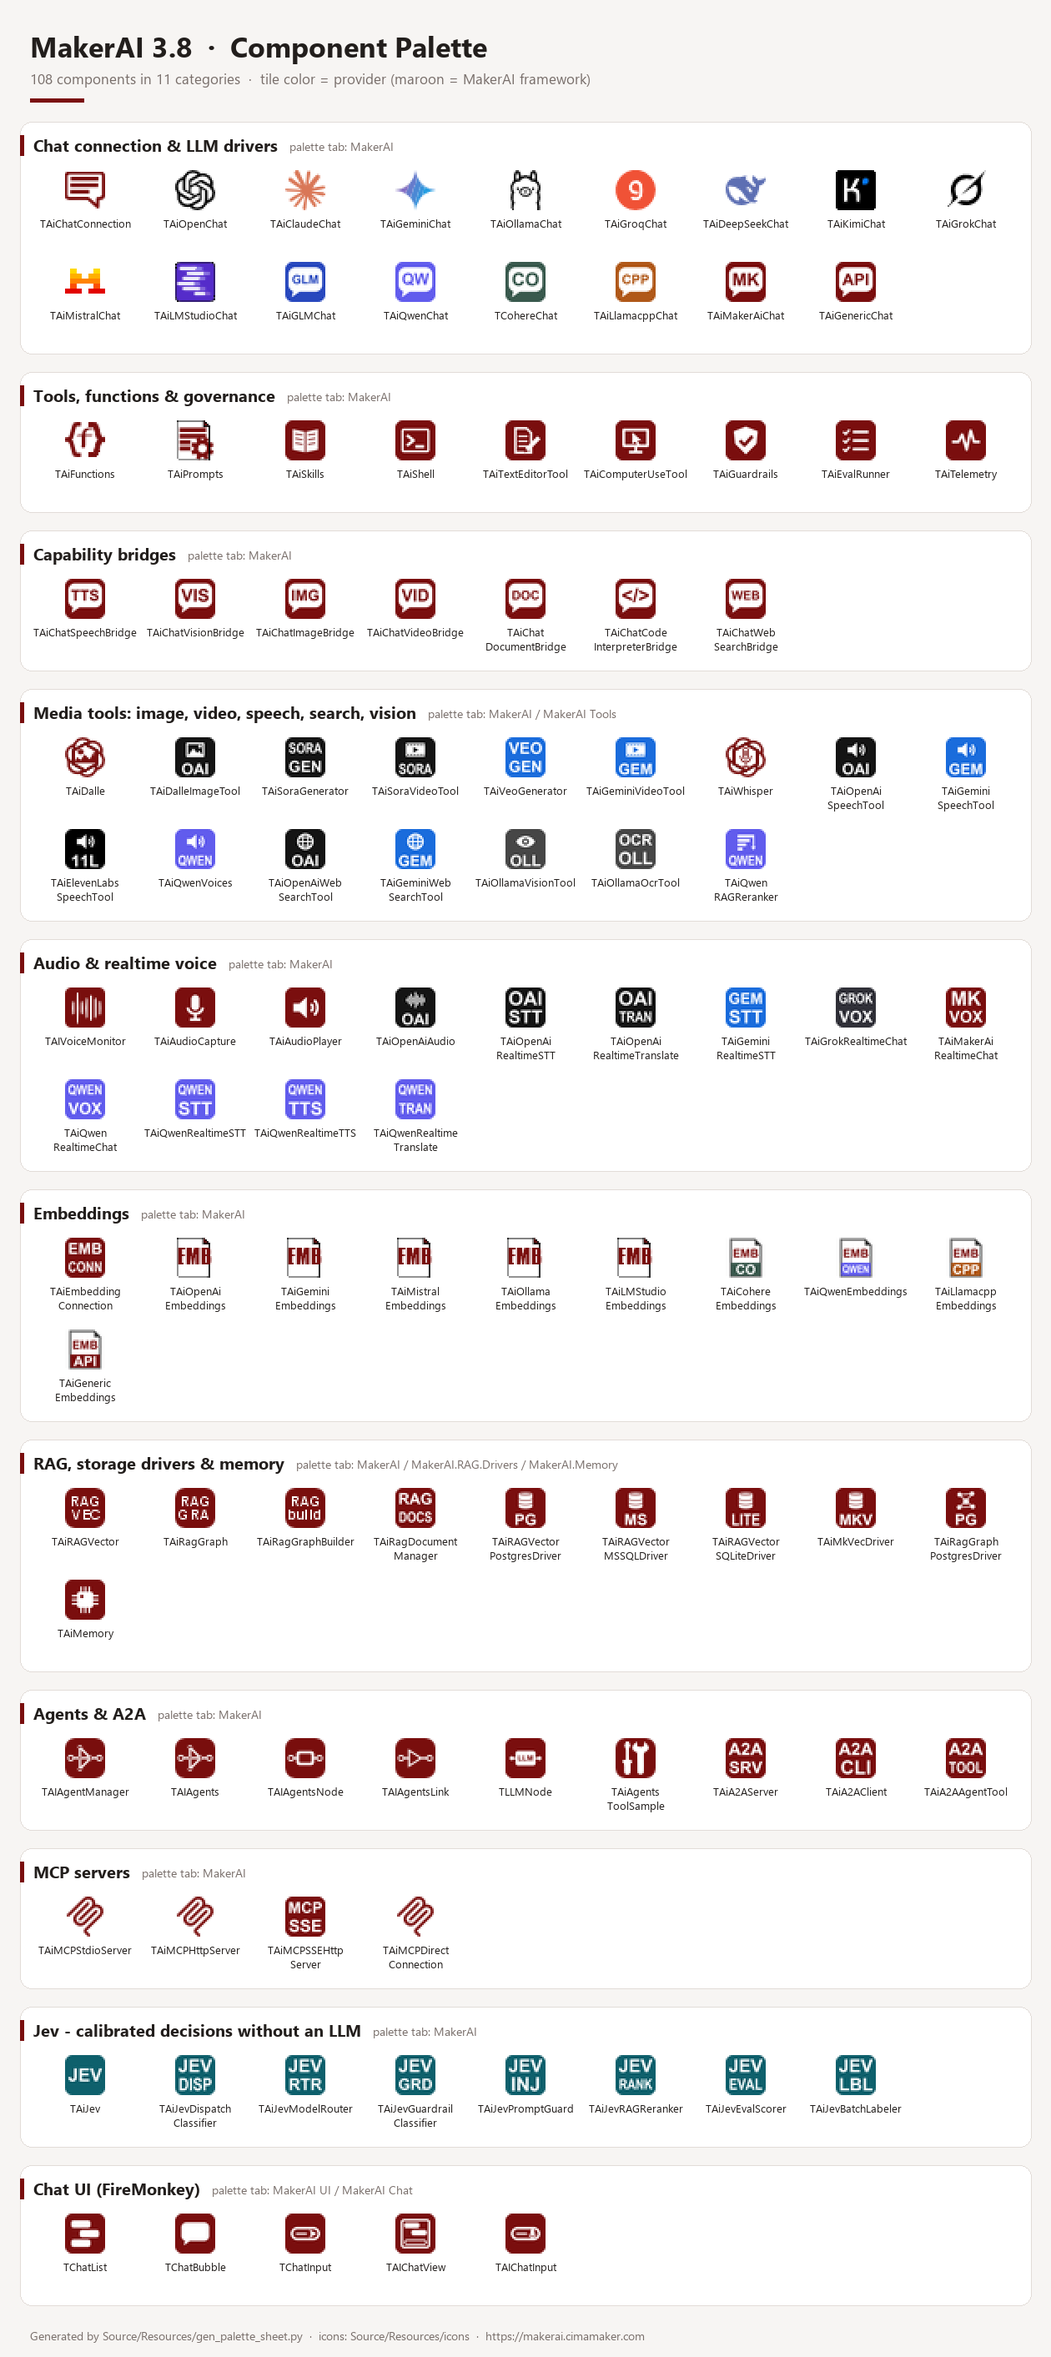
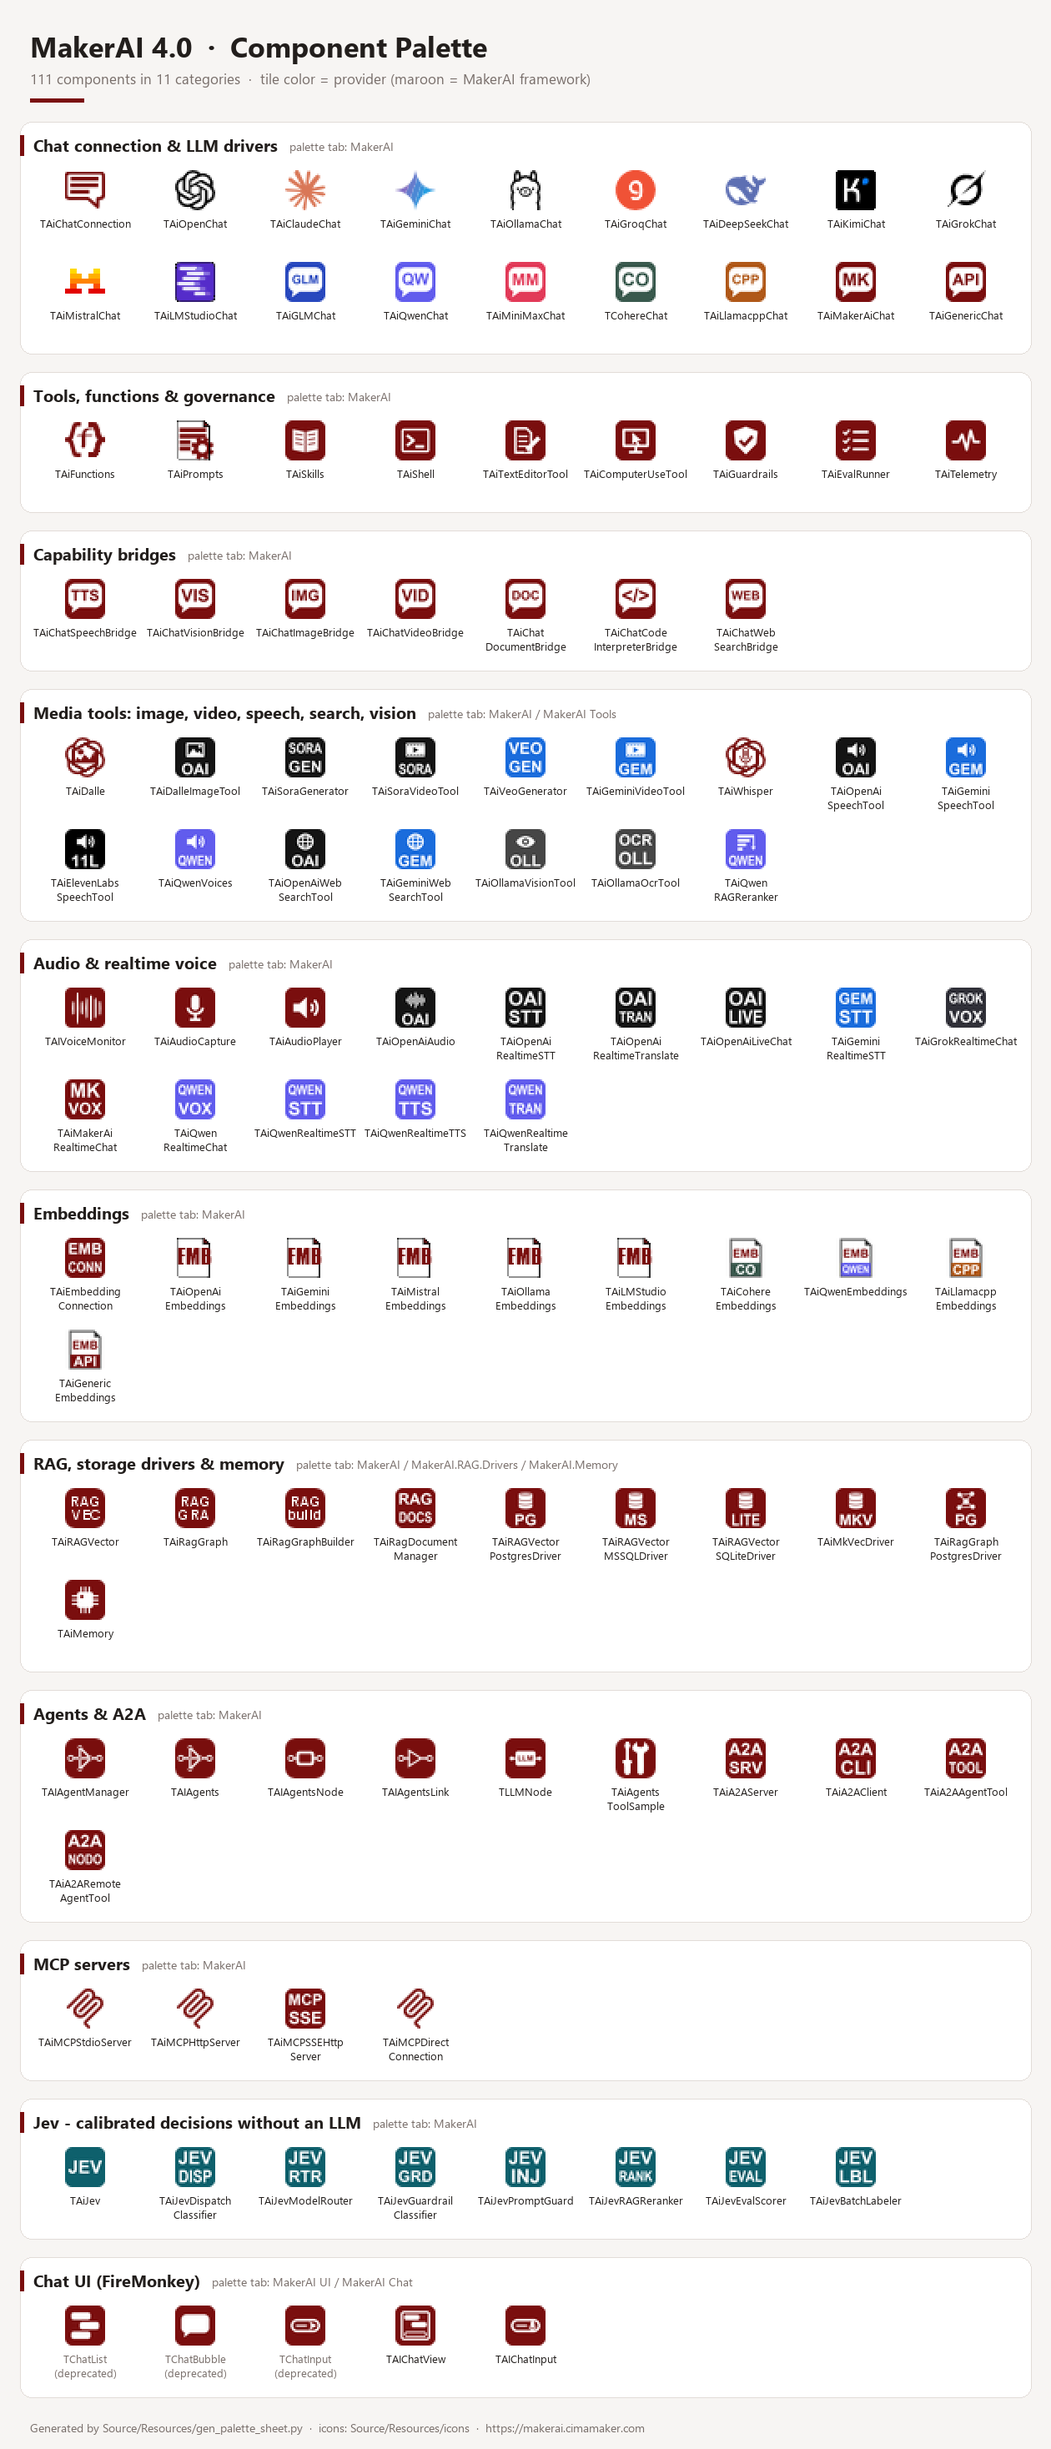
release: version 4.0.0 (API 40)
- uMakerAi.Version.inc: 4.0.0.0, MAKERAI_API_LEVEL 40, BREAKING_CHANGE con
  la entrada 4.0.0 del historial (cambios de comportamiento, novedades,
  fixes, obsoletos, demos, suite 158).
- README: changelog v4.0.0 (2026-11-20) e imagen de la paleta nueva.
- CLAUDE.md raiz, Source, Docs y Demos: 4.0 / API 40; tabla de ChatUI con
  TAIChatView/TAIChatInput.
- Paleta: la lamina tiene los 111 componentes (faltaban TAiMiniMaxChat y
  TAiA2ARemoteAgentTool), marca obsoletos TChatList/TChatBubble/TChatInput
  y lee la version de Version.inc. gen_palette_sheet.py --social genera las
  imagenes para redes (1200x675 y 1080x1080), que reemplazan a las de la 3.8.

Validado: 4 paquetes Win32 y Win64, suite 158/158, textos traducibles
653/653 sin textos a mano, 63/63 demos Win64 Release.

diff --git a/Source/Resources/gen_palette_sheet.py b/Source/Resources/gen_palette_sheet.py
@@ -32,7 +32,7 @@ CATEGORIES = [
     ('Chat connection & LLM drivers', 'MakerAI', [
         'TAiChatConnection', 'TAiOpenChat', 'TAiClaudeChat', 'TAiGeminiChat', 'TAiOllamaChat',
         'TAiGroqChat', 'TAiDeepSeekChat', 'TAiKimiChat', 'TAiGrokChat', 'TAiMistralChat',
-        'TAiLMStudioChat', 'TAiGLMChat', 'TAiQwenChat', 'TCohereChat', 'TAiLlamacppChat',
+        'TAiLMStudioChat', 'TAiGLMChat', 'TAiQwenChat', 'TAiMiniMaxChat', 'TCohereChat', 'TAiLlamacppChat',
         'TAiMakerAiChat', 'TAiGenericChat']),
     ('Tools, functions & governance', 'MakerAI', [
         'TAiFunctions', 'TAiPrompts', 'TAiSkills', 'TAiShell', 'TAiTextEditorTool',
@@ -62,7 +62,7 @@ CATEGORIES = [
         'TAiMkVecDriver', 'TAiRagGraphPostgresDriver', 'TAiMemory']),
     ('Agents & A2A', 'MakerAI', [
         'TAIAgentManager', 'TAIAgents', 'TAIAgentsNode', 'TAIAgentsLink', 'TLLMNode',
-        'TAiAgentsToolSample', 'TAiA2AServer', 'TAiA2AClient', 'TAiA2AAgentTool']),
+        'TAiAgentsToolSample', 'TAiA2AServer', 'TAiA2AClient', 'TAiA2AAgentTool', 'TAiA2ARemoteAgentTool']),
     ('MCP servers', 'MakerAI', [
         'TAiMCPStdioServer', 'TAiMCPHttpServer', 'TAiMCPSSEHttpServer', 'TAiMCPDirectConnection']),
     ('Jev - calibrated decisions without an LLM', 'MakerAI', [
@@ -136,6 +136,21 @@ def split_name(d, text, width):
     return [text[:best], text[best:]]
 
 
+# Componentes que siguen registrados solo para que compilen apps viejas.
+DEPRECATED = {'TChatList', 'TChatBubble', 'TChatInput'}
+
+
+def makerai_version():
+    # MAKERAI_VERSION_SHORT de uMakerAi.Version.inc (archivo ANSI), para que el
+    # titulo de la lamina no quede atrasado al cambiar de version.
+    inc = os.path.join(os.path.dirname(os.path.abspath(__file__)), '..', 'Core', 'uMakerAi.Version.inc')
+    with open(inc, 'rb') as f:
+        for line in f.read().decode('latin-1').splitlines():
+            if 'MAKERAI_VERSION_SHORT' in line and "'" in line:
+                return line.split("'")[1]
+    return '?'
+
+
 def main(out):
     check_coverage()
     width = PAD * 2 + COLS * CELL_W
@@ -149,7 +164,7 @@ def main(out):
     d = ImageDraw.Draw(img)
 
     total = sum(len(c) for _, _, c in CATEGORIES)
-    d.text((PAD, PAD - 4), 'MakerAI 3.8  ·  Component Palette', font=F_TITLE, fill=INK)
+    d.text((PAD, PAD - 4), f'MakerAI {makerai_version()}  ·  Component Palette', font=F_TITLE, fill=INK)
     d.text((PAD, PAD + 46), f'{total} components in {len(CATEGORIES)} categories  ·  '
            'tile color = provider (maroon = MakerAI framework)', font=F_SUB, fill=MUTED)
     d.rectangle((PAD, PAD + 82, PAD + 64, PAD + 86), fill=ACCENT)
@@ -169,9 +184,13 @@ def main(out):
             cy = y + 54 + (i // COLS) * CELL_H
             ic = load_icon(cls)
             img.paste(ic, (cx + (CELL_W - ic.width) // 2, cy + 4), ic)
-            for k, line in enumerate(split_name(d, cls, CELL_W - 8)):
+            lines = split_name(d, cls, CELL_W - 8)
+            if cls in DEPRECATED:
+                lines = list(lines) + ['(deprecated)']
+            for k, line in enumerate(lines):
                 nw = d.textlength(line, font=F_NAME)
-                d.text((cx + (CELL_W - nw) / 2, cy + 58 + k * 17), line, font=F_NAME, fill=INK)
+                d.text((cx + (CELL_W - nw) / 2, cy + 58 + k * 17), line, font=F_NAME,
+                       fill=MUTED if cls in DEPRECATED else INK)
         y += card_h + 22
 
     d.text((PAD, y + 4), 'Generated by Source/Resources/gen_palette_sheet.py  ·  '
@@ -181,5 +200,56 @@ def main(out):
     print('lamina:', out, img.size, 'componentes:', total)
 
 
+SOCIAL_DIR = os.path.join(ROOT, 'Docs', 'Version 3', 'images', 'social')
+
+
+def social(width, height, cols, icon_px, out):
+    # Imagen para redes: titulo con la version, contador, todos los iconos en
+    # rejilla y el pie. Nombre de archivo sin version: se sobrescribe en cada una.
+    classes = [c for _, _, cls in CATEGORIES for c in cls]
+    img = Image.new('RGB', (width, height), BG)
+    d = ImageDraw.Draw(img)
+    d.rectangle((0, 0, width, 8), fill=ACCENT)
+    f_big = font('segoeuib.ttf', 58)
+    f_pill = font('segoeuib.ttf', 20)
+    f_sub = font('segoeui.ttf', 24)
+    f_feat = font('segoeuib.ttf', 21)
+    f_foot = font('segoeui.ttf', 18)
+    x0, y = 64, 52
+    title = f'MakerAI {makerai_version()}'
+    d.text((x0, y), title, font=f_big, fill=INK)
+    tw = d.textlength(title, font=f_big)
+    pill = f'{len(classes)} components'
+    pw = d.textlength(pill, font=f_pill)
+    px, py = x0 + tw + 24, y + 12
+    d.rounded_rectangle((px, py, px + pw + 28, py + 40), radius=20, fill=ACCENT)
+    d.text((px + 14, py + 7), pill, font=f_pill, fill=(255, 255, 255))
+    y += 70
+    d.text((x0, y), 'AI orchestration for Delphi, straight from the component palette', font=f_sub, fill=MUTED)
+    y += 60
+    gap = 10
+    grid_w = cols * icon_px + (cols - 1) * gap
+    gx = (width - grid_w) // 2
+    rows = (len(classes) + cols - 1) // cols
+    grid_h = rows * icon_px + (rows - 1) * gap
+    y += max(0, ((height - 128) - y - grid_h) // 2)   # centrada entre subtitulo y pie
+    for i, cls in enumerate(classes):
+        ic = load_icon(cls).resize((icon_px, icon_px), Image.NEAREST)
+        img.paste(ic, (gx + (i % cols) * (icon_px + gap), y + (i // cols) * (icon_px + gap)), ic)
+    fy = height - 108
+    d.text((x0, fy), '15+ LLM providers · Agents · RAG · MCP · A2A · Realtime voice · Jev · FMX Chat UI',
+           font=f_feat, fill=INK)
+    d.text((x0, fy + 38), 'Open source (MIT)  ·  makerai.cimamaker.com  ·  github.com/gustavoeenriquez/MakerAi',
+           font=f_foot, fill=MUTED)
+    img.save(out, optimize=True)
+    print('social:', out, img.size, 'componentes:', len(classes))
+
+
 if __name__ == '__main__':
-    main(sys.argv[1] if len(sys.argv) > 1 else DEFAULT_OUT)
+    if '--social' in sys.argv:
+        check_coverage()
+        os.makedirs(SOCIAL_DIR, exist_ok=True)
+        social(1200, 675, 19, 48, os.path.join(SOCIAL_DIR, 'MakerAI-palette-1200x675.png'))
+        social(1080, 1080, 13, 64, os.path.join(SOCIAL_DIR, 'MakerAI-palette-1080x1080.png'))
+    else:
+        main(sys.argv[1] if len(sys.argv) > 1 else DEFAULT_OUT)

diff --git a/CLAUDE.md b/CLAUDE.md
@@ -4,9 +4,9 @@ This file provides guidance to Claude Code (claude.ai/code) when working with co
 
 ## Project Overview
 
-MakerAI is an AI orchestration framework for Delphi developers (v4.0 en preparación; `Version.inc` sigue en 3.9.0 / `MAKERAI_API_LEVEL = 39` hasta publicarla). It provides components for integrating multiple LLM providers (OpenAI, Claude, Gemini, Ollama, Groq, DeepSeek, Kimi, GLM/Z.ai, Qwen/Alibaba, MiniMax, Grok, Mistral, Cohere, LM Studio, GenericLLM), RAG systems (vector and graph-based), MCP servers/clients, A2A agent interoperability, autonomous agents, observability, guardrails and native ChatTools into Delphi applications. Supports Delphi 10.4 Sydney through 13 Florence (limited: 10.4 Sydney; full support: 11 Alexandria+).
+MakerAI is an AI orchestration framework for Delphi developers (v4.0.0, nov 20 2026; `MAKERAI_API_LEVEL = 40`). It provides components for integrating multiple LLM providers (OpenAI, Claude, Gemini, Ollama, Groq, DeepSeek, Kimi, GLM/Z.ai, Qwen/Alibaba, MiniMax, Grok, Mistral, Cohere, LM Studio, GenericLLM), RAG systems (vector and graph-based), MCP servers/clients, A2A agent interoperability, autonomous agents, observability, guardrails and native ChatTools into Delphi applications. Supports Delphi 10.4 Sydney through 13 Florence (limited: 10.4 Sydney; full support: 11 Alexandria+).
 
-**v4.0 highlights (nov 2026, sin publicar):** revisión de modelos de oct 2026 contra los APIs vivos (`claude-haiku-5-5`, `gpt-6.1-sol`/`terra`, `gemini-4-argon`, `gemini-nano-banana-2.1`, Kimi K3.1, GLM-5.3 Flash; los retirados quedan como alias de su sucesor) con fixes de thinking/effort por proveedor; driver **MiniMax** (`TAiMiniMaxChat`, sin prueba runtime); **API fluida de agentes completa** (`AddEdge` agrega destinos, `AddNode`/`AddToolNode`/`AddExpressionEdge`/`AddFallbackEdge`/`SetJoinMode`, `EAiGraphError`); **agentes A2A como paquetes PPM** (tipo `agent`, `call_agent` en AutoMCP, solo en registries privados); `TAIChatView` con footer, botones de acción y pasos; Computer Use ejecuta en orden las acciones de un lote; una traza OTel por turno (`TAiTelemetry.ContextEnter`/`ContextLeave`); fixes de producción (puentes, `TAiShell`, filtro de prompts, MCP SSE, `ws://`). **Limpieza de la 4.0:** demos viejos en `DeprecatedDemos/`, consolas de prueba en `Tests/Integration/`, `TChatList`/`TChatBubble`/`TChatInput` obsoletos (ningún demo los usa), novedades 3.4-3.9 movidas del README a `Docs/WHATS-NEW-3.x.md`. Cambios de comportamiento: ver README.
+**v4.0 highlights (nov 20 2026):** revisión de modelos de oct 2026 (y `claude-fable-5-2` en nov) contra los APIs vivos (`claude-haiku-5-5`, `gpt-6.1-sol`/`terra`, `gemini-4-argon`, `gemini-nano-banana-2.1`, Kimi K3.1, GLM-5.3 Flash; los retirados quedan como alias de su sucesor) con fixes de thinking/effort por proveedor; driver **MiniMax** (`TAiMiniMaxChat`, sin prueba runtime); **API fluida de agentes completa** (`AddEdge` agrega destinos, `AddNode`/`AddToolNode`/`AddExpressionEdge`/`AddFallbackEdge`/`SetJoinMode`, `EAiGraphError`); **agentes A2A como paquetes PPM** (tipo `agent`, `call_agent` en AutoMCP, solo en registries privados); `TAIChatView` con footer, botones de acción y pasos; Computer Use ejecuta en orden las acciones de un lote; una traza OTel por turno (`TAiTelemetry.ContextEnter`/`ContextLeave`); fixes de producción (puentes, `TAiShell`, filtro de prompts, MCP SSE, `ws://`). **Limpieza de la 4.0:** demos viejos en `DeprecatedDemos/`, consolas de prueba en `Tests/Integration/`, `TChatList`/`TChatBubble`/`TChatInput` obsoletos (ningún demo los usa), novedades 3.4-3.9 movidas del README a `Docs/WHATS-NEW-3.x.md`. Cambios de comportamiento: ver README.
 
 **v3.9 highlights (oct 2026):** **OpenAI GPT-Live** (`TAiOpenAiLiveChat`, voz full-duplex que escucha mientras habla y delega el razonamiento a un modelo Responses o a cualquier `TAiChatConnection`; demo 092 con RAG por MCP); **Jev con modelos locales de Ollama** (`/v1/systemone`: nimble, Clef con imágenes; `Url` en los adaptadores, precio 0 fuera de TypeSafe); **3 fugas de memoria** corregidas (servidor MCP en cada `tools/list`, cliente MCP en `Initialize`, `TAiRealtimeFactory`); `TAiMCPServer.BindAddress`; íconos de paleta para los 108 componentes; demo 037 sobre PostgreSQL. **Cambios de comportamiento (3):** audio de OpenAI por defecto `gpt-transcribe`/`gpt-4o-mini-tts` (whisper-1 y tts-1 se apagan), `IAiMCPTool.GetInputSchema` devuelve un objeto del que llama (afecta tools MCP propias que devolvían un campo guardado) y el driver Responses ahora respeta `Max_Tokens`. Deprecados de OpenAI marcados con fecha de apagado. `MAKERAI_API_LEVEL = 39`.
 
@@ -268,7 +268,7 @@ uses uJSONHelper;  // JSON helper for older Delphi versions
 
 ### Feature Flags (uMakerAi.Version.inc)
 
-All `MAKERAI_HAS_*` feature flags are `True` by default (OpenAI, Whisper, Embeddings, Tool Calling, RAG Vector/Graph, MCP, Chat Connection, UI Components, Agents). Platform flags: Windows, Linux, Mobile are `True`; **macOS is `False`** (incomplete). `MAKERAI_API_LEVEL = 39`.
+All `MAKERAI_HAS_*` feature flags are `True` by default (OpenAI, Whisper, Embeddings, Tool Calling, RAG Vector/Graph, MCP, Chat Connection, UI Components, Agents). Platform flags: Windows, Linux, Mobile are `True`; **macOS is `False`** (incomplete). `MAKERAI_API_LEVEL = 40`.
 
 ## Thread Safety Notes
 

diff --git a/README.md b/README.md
@@ -270,7 +270,7 @@ AiConn.Params.Values['ApiKey'] := '@GLM_API_KEY';
 Every one of the 111 components has its own palette icon. The tile color identifies the
 provider (maroon = MakerAI framework, black = OpenAI, blue = Gemini, purple = Qwen, teal = Jev…).
 
-![MakerAI 3.8 component palette](Docs/Version%203/images/social/MakerAI-3.8-palette-1200x675.png)
+![MakerAI component palette](Docs/Version%203/images/social/MakerAI-palette-1200x675.png)
 
 The **[full sheet](Docs/Version%203/images/MakerAI-Component-Palette.png)** groups them by
 category, with the class name and the palette tab each one lands on. Icons are generated by
@@ -726,7 +726,7 @@ Small consoles with asserts that reproduce a specific issue against the live API
 
 ## 🔄 Changelog
 
-### v4.0.0 (unreleased)
+### v4.0.0 (2026-11-20)
 - ⚠ Change (Claude): **web search is opt-in** — `cap_WebSearch` removed from every Claude model and profile in the registry except `aa_claude-opus-4-6-agent` / `aa_claude-opus-5-agent`. With it, each call carried `web_search_20260209` plus Anthropic's auto-injected `code_execution`: measured live, a trivial question on `claude-fable-5-2` went from 5,994 input tokens to 30, and on `claude-haiku-5-5` an opt-in search still works (`cap_WebSearch` in `ModelCaps` and `SessionCaps`)
 - New: **`claude-fable-5-2`** registered ($8/$40, cache read $0.20; 1M context, 128K output) — the successor of Fable 5.1 at a lower price. Forcing a tool is downgraded to `auto` (the API returns 400) and `FastMode` is allowed on it (fast mode is GA there). Tested live (7/7: text, streaming, a forced tool call, image, a mid-conversation `system` message, `tlNone`, fast mode)
 - Fix (memory): **`TAiMemoryContext.Build` freed every semantic hit twice** — the `SearchSemantic` list owns its entries, which had already been handed to the candidate list, so each semantic match ended in an access violation (or a corrupted heap). Present since v3.9. Fix (MCP): a client borrowed from a shared pool (`AddBorrowedMCPClient`) is no longer rewritten (`Params`, `EnvVars`, `Name`) or recreated by its `TAiFunctions` item, so two threads no longer overwrite each other's settings

diff --git a/Source/CLAUDE.md b/Source/CLAUDE.md
@@ -4,7 +4,7 @@ This file provides guidance to Claude Code (claude.ai/code) when working with co
 
 ## Source Directory Overview
 
-This is the main source code directory for MakerAI 3.x (current version in `Core/uMakerAi.Version.inc`), an AI orchestration framework for Delphi. See individual module CLAUDE.md files for detailed guidance on specific subsystems.
+This is the main source code directory for MakerAI 4.x (current version in `Core/uMakerAi.Version.inc`), an AI orchestration framework for Delphi. See individual module CLAUDE.md files for detailed guidance on specific subsystems.
 
 ## Building
 
@@ -32,7 +32,7 @@ All subdirectories (Agents, Chat, ChatUI, Core, Design, Embeddings, MCPClient, M
 | MCPServer | `uMakerAi.MCPServer.Core.pas` | `TAiMCPServer`, `IAiMCPTool` |
 | MCPClient | `uMakerAi.MCPClient.Core.pas` | `TMCPClientItem`, transport classes |
 | Tools | `uMakerAi.Tools.Functions.pas` | `TAiFunctions`, `TFunctionActionItem` |
-| ChatUI | `uMakerAi.UI.ChatList.pas` | `TChatList`, `TChatBubble`, `TChatInput` |
+| ChatUI | `AIChat.Control.FMX.pas`, `AIChat.Input.pas` | `TAIChatView`, `TAIChatInput` (`TChatList`/`TChatBubble`/`TChatInput` obsoletos) |
 | Realtime | `uMakerAi.Realtime.AiConnection.pas` | `TAiRealtimeConnection`, `TAiRealtimeBase`, `TAiOpenAiRealtimeSTT` |
 | WebSocket | `uMakerAi.WebSocket.Client.pas` | `TAiWSClient`, `ITlsTransport`, `TSChannelTransport`, `TAndroidSSLTransport`, `TOpenSSLTransport` |
 

diff --git a/Demos/CLAUDE.md b/Demos/CLAUDE.md
@@ -4,7 +4,7 @@ This file provides guidance to Claude Code (claude.ai/code) when working with co
 
 ## Overview
 
-This is the Demos directory for the MakerAI 3.x framework. Contains 63 working example projects demonstrating AI integration patterns for Delphi developers. La mayoria tiene su propio CLAUDE.md con los detalles de implementacion; los que no, estan marcados abajo.
+This is the Demos directory for the MakerAI 4.x framework. Contains 63 working example projects demonstrating AI integration patterns for Delphi developers. La mayoria tiene su propio CLAUDE.md con los detalles de implementacion; los que no, estan marcados abajo.
 
 **Estado de compilación (nov 09/2026, tras la localización de la 4.0): 126 de 127 proyectos compilan** en Win64/Debug (los 63 del grupo y los 64 de `Libro/`); el único que falla es `Libro/cap34-componentes-anexos`, que necesita los repos anexos (`DELPHI_LIBRARIES`, `MAKERAI_CHATTOOLS`). **Idioma:** el 081 y el 095 tienen un combo es/en/pt y `--idioma`, y registran sus propios textos con `TAiLocale.RegisterTable` (ver sus CLAUDE.md). Antes: (ago 7/2026) los 48 proyectos compilaban en Win64/Release; el 081 (ago 18/2026), el 082 y el 083 (sep 20/2026) también compilan; el 082 se corrió en runtime (6/6 PASS) y el 083 en **Linux64** sobre Xvfb con OpenAI y Claude.
 

diff --git a/Source/Resources/CLAUDE.md b/Source/Resources/CLAUDE.md
@@ -37,6 +37,15 @@ package links its own `.res`. An icon placed in the wrong `.rc` does not show up
    ```
    (`brcc32` is in `C:\Program Files (x86)\Embarcadero\Studio\37.0\bin`)
 
+5. Add the class to its category in `gen_palette_sheet.py` (it warns about icons without a
+   category) and regenerate the images:
+   ```
+   python gen_palette_sheet.py            # Docs/Version 3/images/MakerAI-Component-Palette.png
+   python gen_palette_sheet.py --social   # Docs/Version 3/images/social/MakerAI-palette-*.png
+   ```
+   Both read the version from `Core/uMakerAi.Version.inc`, so regenerate them after a
+   version bump. Use the user's Python (not `python -I`): Pillow lives in user site-packages.
+
 The provider icons drawn by hand (OpenAI, Claude, Gemini, ...) are not in `SPECS`
 and are never overwritten by the generator.
 

diff --git a/Docs/CLAUDE.md b/Docs/CLAUDE.md
@@ -4,7 +4,7 @@ This file provides guidance to Claude Code (claude.ai/code) when working with co
 
 ## Directory Purpose
 
-This is the documentation root for MakerAI v3.x (current version in `Source/Core/uMakerAi.Version.inc`) - an AI orchestration framework for Delphi. **No source code exists here** - all implementation is in `/Source/`.
+This is the documentation root for MakerAI (v4.0; current version in `Source/Core/uMakerAi.Version.inc`) - an AI orchestration framework for Delphi. **No source code exists here** - all implementation is in `/Source/`.
 
 ## Documentation Structure
 
